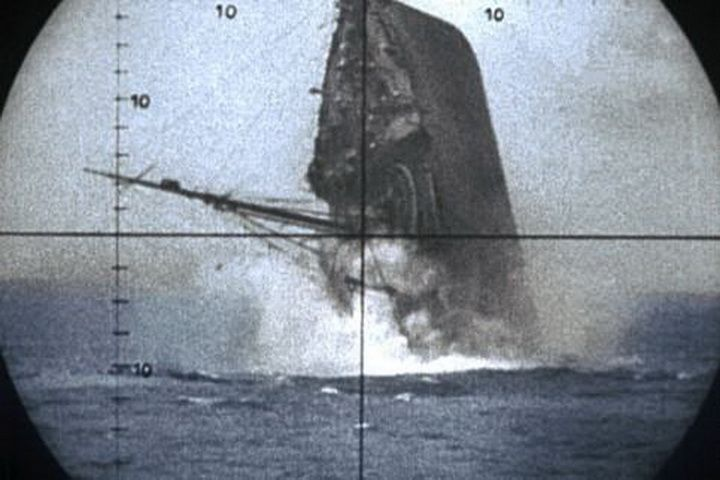
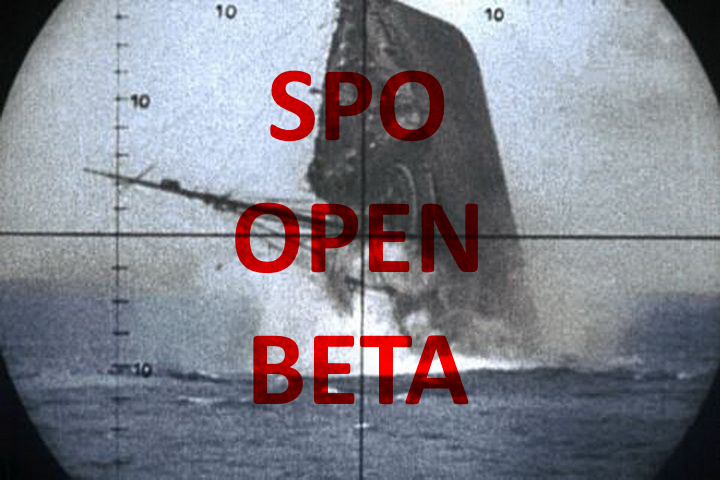
Updated for beta with the new steam id

Changed region(s): [[0.3056, 0.4062, 0.6722, 0.5938], [0.3361, 0.6875, 0.6722, 0.8438], [0.3667, 0.125, 0.6417, 0.3125]]

diff --git a/Source/SinkingPhysics.cs b/Source/SinkingPhysics.cs
@@ -27,7 +27,7 @@ namespace SinkingPhysicsOverhaul
             try
             {
                 Debug.Log($"{Constants.MOD_TAG} version: {Constants.VERSION}");                
-                HarmonyInstance harmony = HarmonyInstance.Create("com.dws.uboat");
+                HarmonyInstance harmony = HarmonyInstance.Create("com.umg.uboat.sinking-physics-overhaul");
                 harmony.PatchAll();
                 DevConsole.AddListener("TargetInfo", ConsoleCommands.TargetInfo);
                 DevConsole.AddListener("TargetRotation", ConsoleCommands.TargetRotation);

diff --git a/Source/Constants.cs b/Source/Constants.cs
@@ -2,7 +2,7 @@
 {
     public class Constants
     {
-        public static readonly string VERSION = "1.2.0a";
+        public static readonly string VERSION = "1.2.1b";
         public static readonly string MOD_TAG = "[Sinking Physics]";
         public static readonly string HPBAR_DATA_PATH = "SinkingPhysicsOverhaul/Settings/Global/HPBar";
     }
